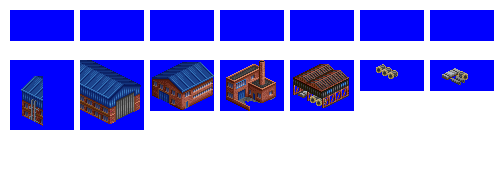
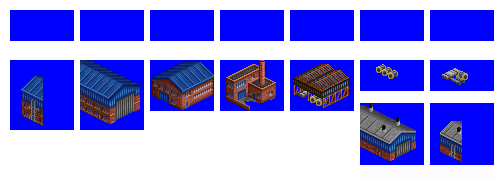
Change: WIP on Basic Oxygen Furnace sprites

Changed region(s): [[0.72, 0.5556, 0.99, 0.9167]]

diff --git a/src/industries/basic_oxygen_furnace.py b/src/industries/basic_oxygen_furnace.py
@@ -41,6 +41,9 @@ spriteset_chimney = industry.add_spriteset(
     sprites=[(150, 10, 64, 122, -31, -90)],
 )
 """
+spriteset_furnace_1 = industry.add_spriteset(
+    sprites=[(150, 10, 64, 122, -31, -90)],
+)
 spriteset_crane = industry.add_spriteset(
     sprites=[(220, 10, 64, 122, -31, -90)],
 )
@@ -50,7 +53,7 @@ spriteset_manganese_1 = industry.add_spriteset(
 spriteset_air_plant_2 = industry.add_spriteset(
     sprites=[(360, 10, 64, 122, -31, -90)],
 )
-spriteset_furnace_1 = industry.add_spriteset(
+spriteset_furnace_2 = industry.add_spriteset(
     sprites=[(430, 10, 64, 122, -31, -90)],
 )
 spriteset_metal_1 = industry.add_spriteset(
@@ -59,7 +62,7 @@ spriteset_metal_1 = industry.add_spriteset(
 spriteset_metal_2 = industry.add_spriteset(
     sprites=[(570, 10, 64, 122, -31, -90)],
 )
-spriteset_office = industry.add_spriteset(
+spriteset_tanks = industry.add_spriteset(
     sprites=[(640, 10, 64, 122, -31, -90)],
 )
 sprite_smoke = industry.add_smoke_sprite(
@@ -113,6 +116,14 @@ industry.add_spritelayout(
     fences=['nw', 'ne', 'se', 'sw']
 )
 industry.add_spritelayout(
+    id='basic_oxygen_furnace_spritelayout_furnace_2',
+    ground_sprite=sprite_ground,
+    ground_overlay=sprite_ground_overlay,
+    building_sprites=[spriteset_furnace_2],
+    smoke_sprites=[sprite_smoke],
+    fences=['nw', 'ne', 'se', 'sw']
+)
+industry.add_spritelayout(
     id='basic_oxygen_furnace_spritelayout_metal_1',
     ground_sprite=sprite_ground,
     ground_overlay=sprite_ground_overlay,
@@ -120,10 +131,10 @@ industry.add_spritelayout(
     fences=['nw', 'ne', 'se', 'sw']
 )
 industry.add_spritelayout(
-    id='basic_oxygen_furnace_spritelayout_office',
+    id='basic_oxygen_furnace_spritelayout_tanks',
     ground_sprite=sprite_ground,
     ground_overlay=sprite_ground_overlay,
-    building_sprites=[spriteset_office],
+    building_sprites=[spriteset_tanks],
     fences=['nw', 'ne', 'se', 'sw']
 )
 
@@ -139,7 +150,7 @@ industry.add_industry_layout(
             (1, 2, 'basic_oxygen_furnace_tile_1', 'basic_oxygen_furnace_spritelayout_furnace_1'),
             (1, 3, 'basic_oxygen_furnace_tile_1', 'basic_oxygen_furnace_spritelayout_empty'),
             (1, 4, 'basic_oxygen_furnace_tile_1', 'basic_oxygen_furnace_spritelayout_air_plant_2'),
-            (2, 0, 'basic_oxygen_furnace_tile_1', 'basic_oxygen_furnace_spritelayout_office'),
+            (2, 0, 'basic_oxygen_furnace_tile_1', 'basic_oxygen_furnace_spritelayout_tanks'),
             (2, 1, 'basic_oxygen_furnace_tile_1', 'basic_oxygen_furnace_spritelayout_metal_2'),
             (2, 2, 'basic_oxygen_furnace_tile_1', 'basic_oxygen_furnace_spritelayout_metal_1'),
             (2, 3, 'basic_oxygen_furnace_tile_1', 'basic_oxygen_furnace_spritelayout_empty'),
@@ -163,7 +174,7 @@ industry.add_industry_layout(
             (3, 0, 'basic_oxygen_furnace_tile_1', 'basic_oxygen_furnace_spritelayout_metal_2'),
             (3, 1, 'basic_oxygen_furnace_tile_1', 'basic_oxygen_furnace_spritelayout_metal_1'),
             (3, 2, 'basic_oxygen_furnace_tile_1', 'basic_oxygen_furnace_spritelayout_empty'),
-            (3, 3, 'basic_oxygen_furnace_tile_1', 'basic_oxygen_furnace_spritelayout_office'),
+            (3, 3, 'basic_oxygen_furnace_tile_1', 'basic_oxygen_furnace_spritelayout_tanks'),
             ]
 )
 industry.add_industry_layout(
@@ -182,25 +193,25 @@ industry.add_industry_layout(
             (3, 2, 'basic_oxygen_furnace_tile_1', 'basic_oxygen_furnace_spritelayout_metal_1'),
             (4, 0, 'basic_oxygen_furnace_tile_1', 'basic_oxygen_furnace_spritelayout_manganese_1'),
             (4, 1, 'basic_oxygen_furnace_tile_1', 'basic_oxygen_furnace_spritelayout_empty'),
-            (4, 2, 'basic_oxygen_furnace_tile_1', 'basic_oxygen_furnace_spritelayout_office'),
+            (4, 2, 'basic_oxygen_furnace_tile_1', 'basic_oxygen_furnace_spritelayout_tanks'),
             ]
 )
 industry.add_industry_layout(
     id='basic_oxygen_furnace_industry_layout_4',
-    layout=[(0, 0, 'basic_oxygen_furnace_tile_1', 'basic_oxygen_furnace_spritelayout_empty'),
+    layout=[(0, 0, 'basic_oxygen_furnace_tile_1', 'basic_oxygen_furnace_spritelayout_furnace_2'),
             (0, 1, 'basic_oxygen_furnace_tile_1', 'basic_oxygen_furnace_spritelayout_empty'),
-            (0, 2, 'basic_oxygen_furnace_tile_1', 'basic_oxygen_furnace_spritelayout_crane'),
-            (1, 0, 'basic_oxygen_furnace_tile_1', 'basic_oxygen_furnace_spritelayout_empty'),
+            (0, 2, 'basic_oxygen_furnace_tile_1', 'basic_oxygen_furnace_spritelayout_manganese_1'),
+            (1, 0, 'basic_oxygen_furnace_tile_1', 'basic_oxygen_furnace_spritelayout_furnace_2'),
             (1, 1, 'basic_oxygen_furnace_tile_1', 'basic_oxygen_furnace_spritelayout_furnace_1'),
-            (1, 2, 'basic_oxygen_furnace_tile_1', 'basic_oxygen_furnace_spritelayout_manganese_1'),
-            (2, 0, 'basic_oxygen_furnace_tile_1', 'basic_oxygen_furnace_spritelayout_furnace_1'),
+            (1, 2, 'basic_oxygen_furnace_tile_1', 'basic_oxygen_furnace_spritelayout_air_plant_2'),
+            (2, 0, 'basic_oxygen_furnace_tile_1', 'basic_oxygen_furnace_spritelayout_furnace_2'),
             (2, 1, 'basic_oxygen_furnace_tile_1', 'basic_oxygen_furnace_spritelayout_furnace_1'),
-            (2, 2, 'basic_oxygen_furnace_tile_1', 'basic_oxygen_furnace_spritelayout_air_plant_2'),
-            (3, 0, 'basic_oxygen_furnace_tile_1', 'basic_oxygen_furnace_spritelayout_furnace_1'),
+            (2, 2, 'basic_oxygen_furnace_tile_1', 'basic_oxygen_furnace_spritelayout_tanks'),
+            (3, 0, 'basic_oxygen_furnace_tile_1', 'basic_oxygen_furnace_spritelayout_furnace_2'),
             (3, 1, 'basic_oxygen_furnace_tile_1', 'basic_oxygen_furnace_spritelayout_empty'),
-            (3, 2, 'basic_oxygen_furnace_tile_1', 'basic_oxygen_furnace_spritelayout_office'),
+            (3, 2, 'basic_oxygen_furnace_tile_1', 'basic_oxygen_furnace_spritelayout_empty'),
             (4, 0, 'basic_oxygen_furnace_tile_1', 'basic_oxygen_furnace_spritelayout_metal_1'),
             (4, 1, 'basic_oxygen_furnace_tile_1', 'basic_oxygen_furnace_spritelayout_metal_2'),
-            (4, 2, 'basic_oxygen_furnace_tile_1', 'basic_oxygen_furnace_spritelayout_empty'),
+            (4, 2, 'basic_oxygen_furnace_tile_1', 'basic_oxygen_furnace_spritelayout_crane'),
             ]
 )
